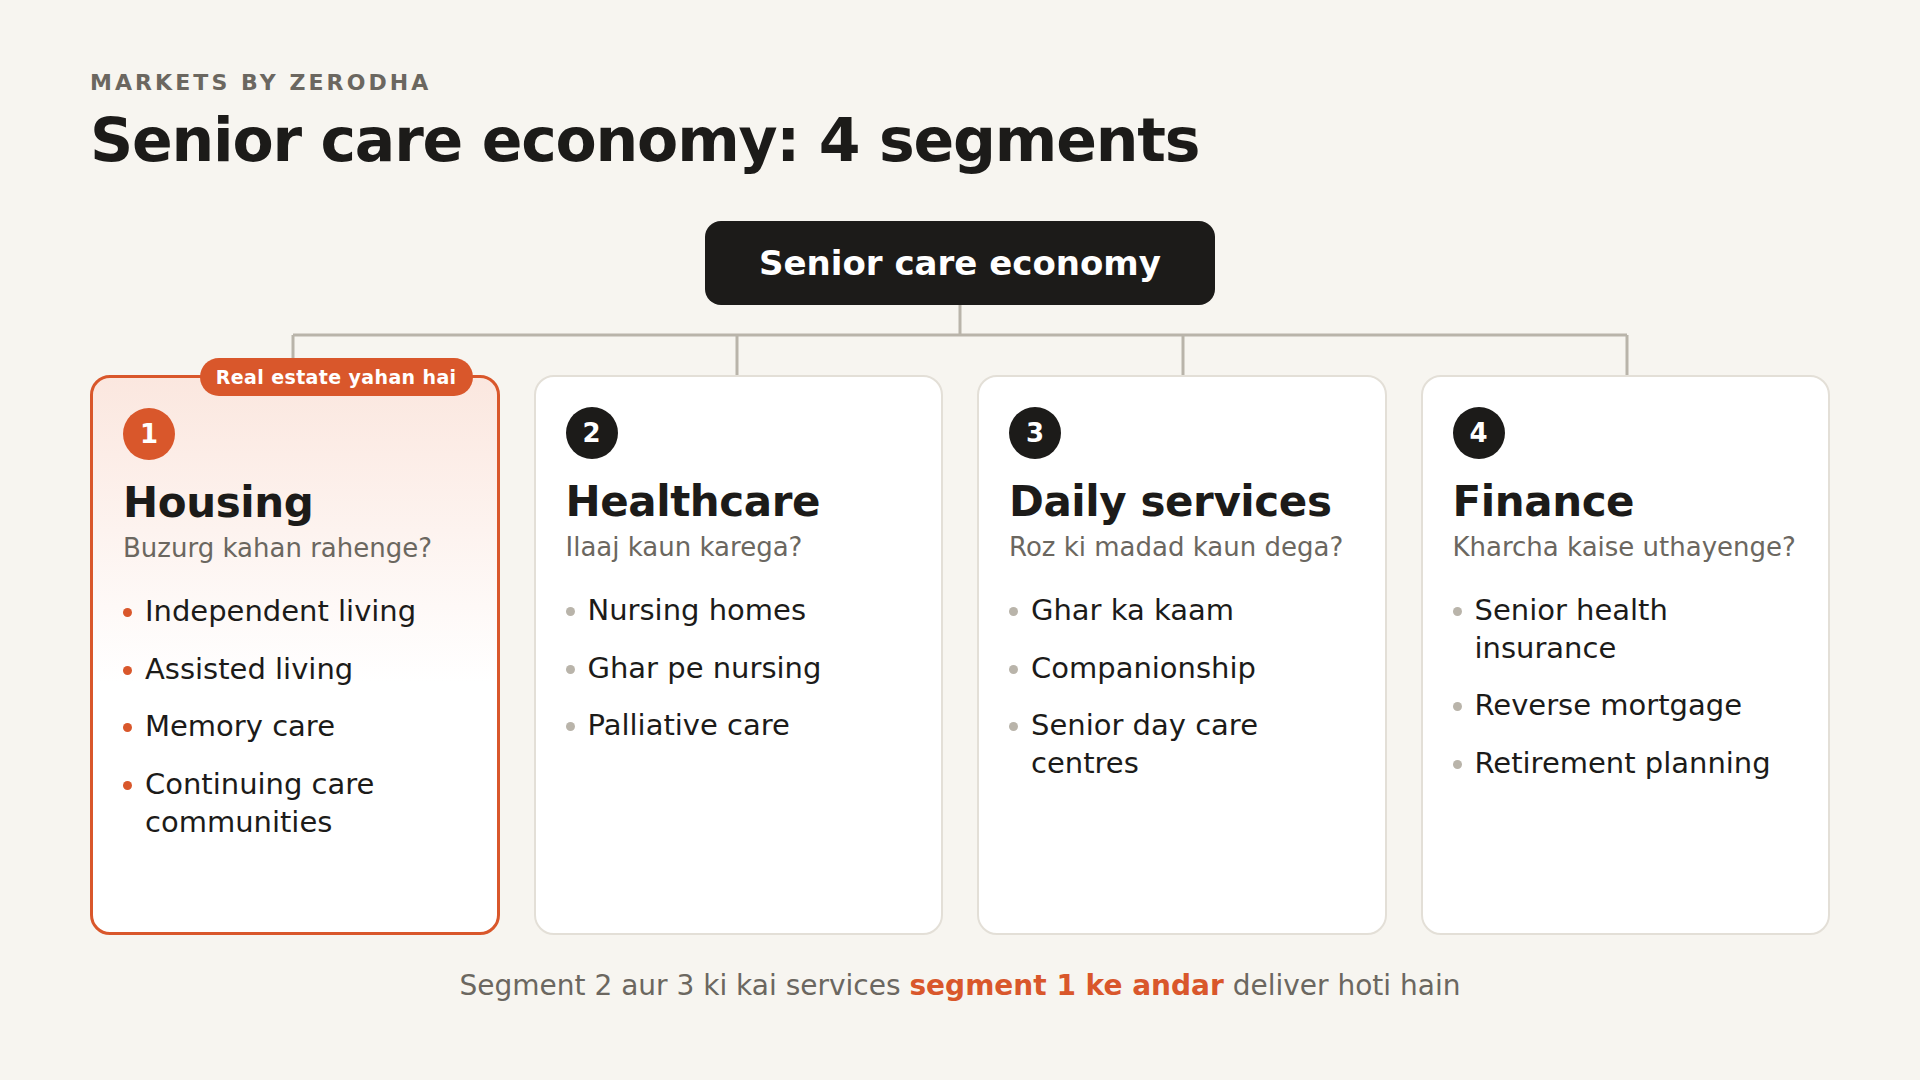
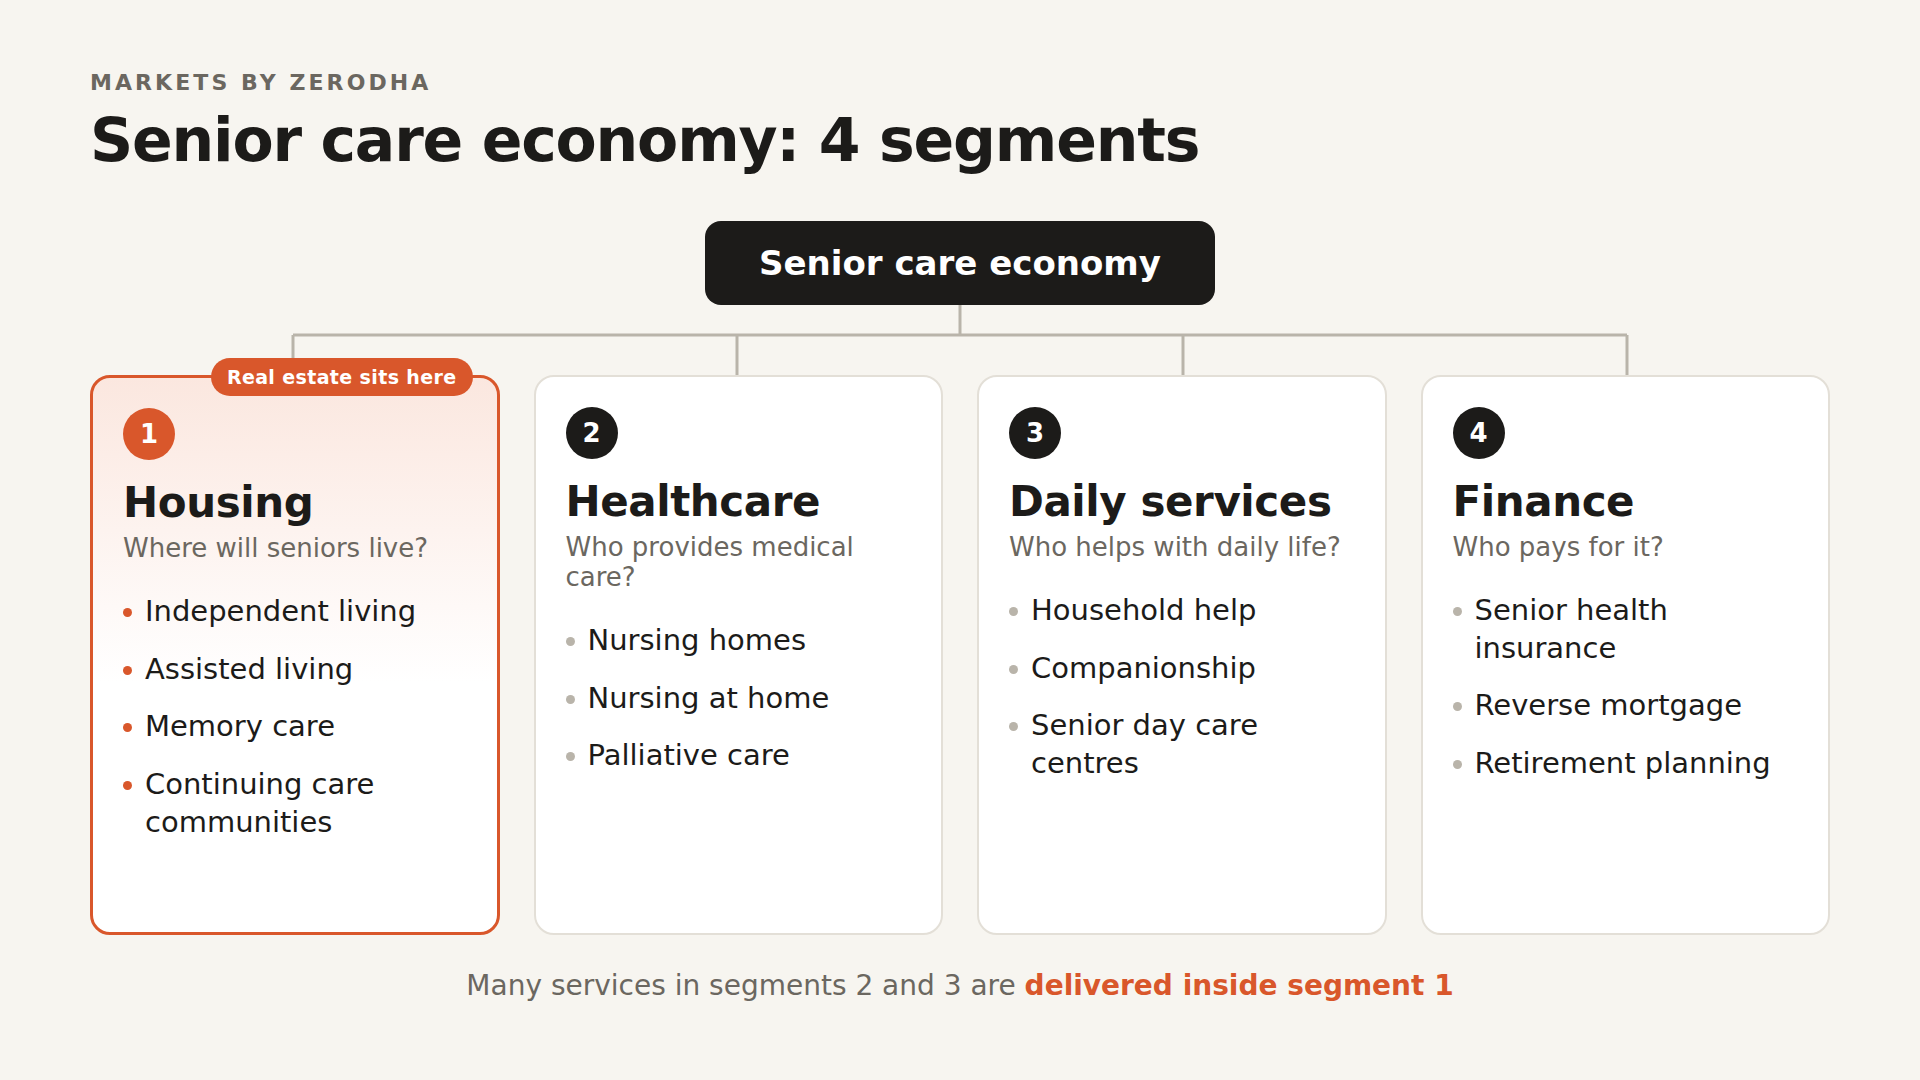
Senior care flowchart: English labels
Claude-Session: https://claude.ai/code/session_018zCU8SfWTLGkD83UaaMuqx

diff --git a/senior-care/flowchart/senior-care-segments.html b/senior-care/flowchart/senior-care-segments.html
@@ -36,22 +36,22 @@ li:before{content:"";position:absolute;left:0;top:15px;width:9px;height:9px;bord
     </g>
   </svg>
   <div class="cols">
-    <div class="col hl"><span class="tag">Real estate yahan hai</span>
-      <div class="num">1</div><div class="title">Housing</div><div class="q">Buzurg kahan rahenge?</div>
+    <div class="col hl"><span class="tag">Real estate sits here</span>
+      <div class="num">1</div><div class="title">Housing</div><div class="q">Where will seniors live?</div>
       <ul><li>Independent living</li><li>Assisted living</li><li>Memory care</li><li>Continuing care communities</li></ul>
     </div>
     <div class="col">
-      <div class="num">2</div><div class="title">Healthcare</div><div class="q">Ilaaj kaun karega?</div>
-      <ul><li>Nursing homes</li><li>Ghar pe nursing</li><li>Palliative care</li></ul>
+      <div class="num">2</div><div class="title">Healthcare</div><div class="q">Who provides medical care?</div>
+      <ul><li>Nursing homes</li><li>Nursing at home</li><li>Palliative care</li></ul>
     </div>
     <div class="col">
-      <div class="num">3</div><div class="title">Daily services</div><div class="q">Roz ki madad kaun dega?</div>
-      <ul><li>Ghar ka kaam</li><li>Companionship</li><li>Senior day care centres</li></ul>
+      <div class="num">3</div><div class="title">Daily services</div><div class="q">Who helps with daily life?</div>
+      <ul><li>Household help</li><li>Companionship</li><li>Senior day care centres</li></ul>
     </div>
     <div class="col">
-      <div class="num">4</div><div class="title">Finance</div><div class="q">Kharcha kaise uthayenge?</div>
+      <div class="num">4</div><div class="title">Finance</div><div class="q">Who pays for it?</div>
       <ul><li>Senior health insurance</li><li>Reverse mortgage</li><li>Retirement planning</li></ul>
     </div>
   </div>
-  <div class="foot">Segment 2 aur 3 ki kai services <b>segment 1 ke andar</b> deliver hoti hain</div>
+  <div class="foot">Many services in segments 2 and 3 are <b>delivered inside segment 1</b></div>
 </div></body></html>
